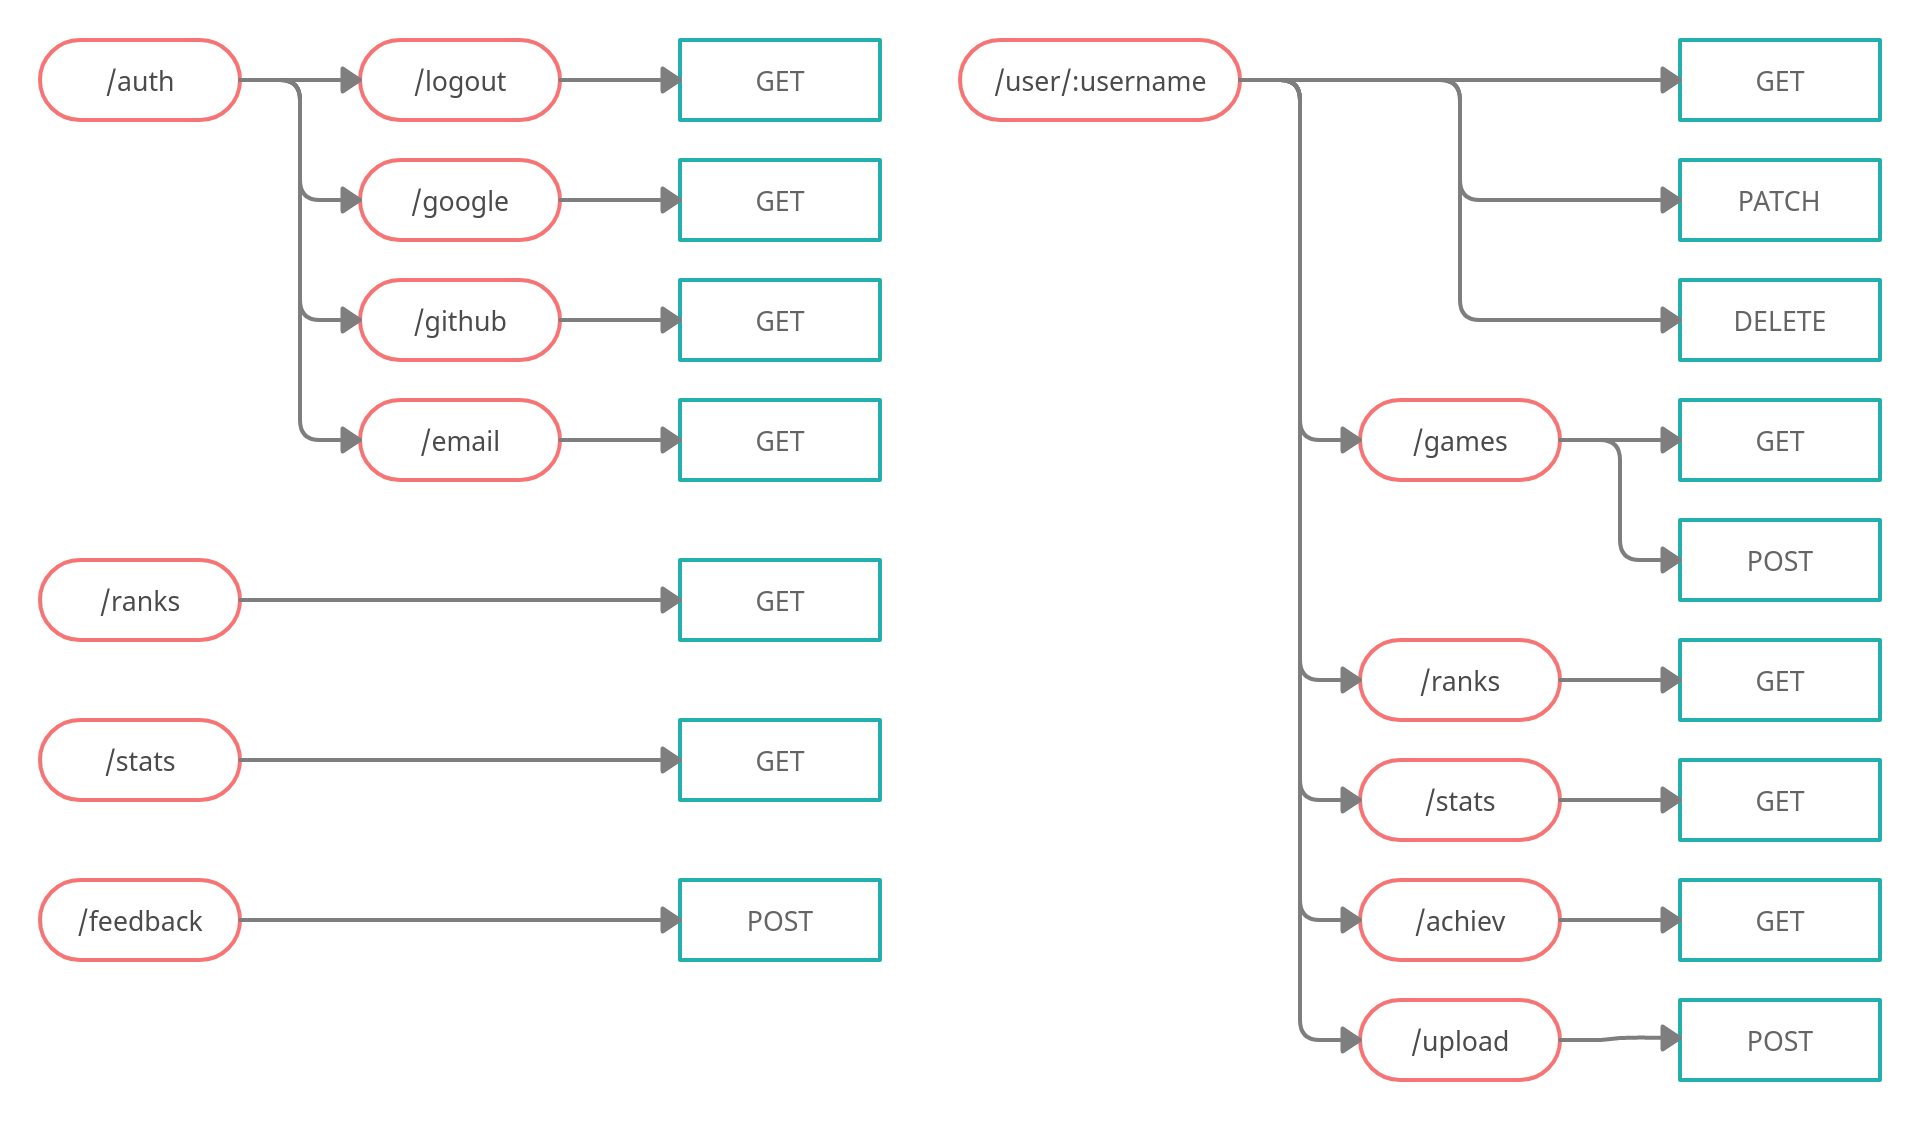
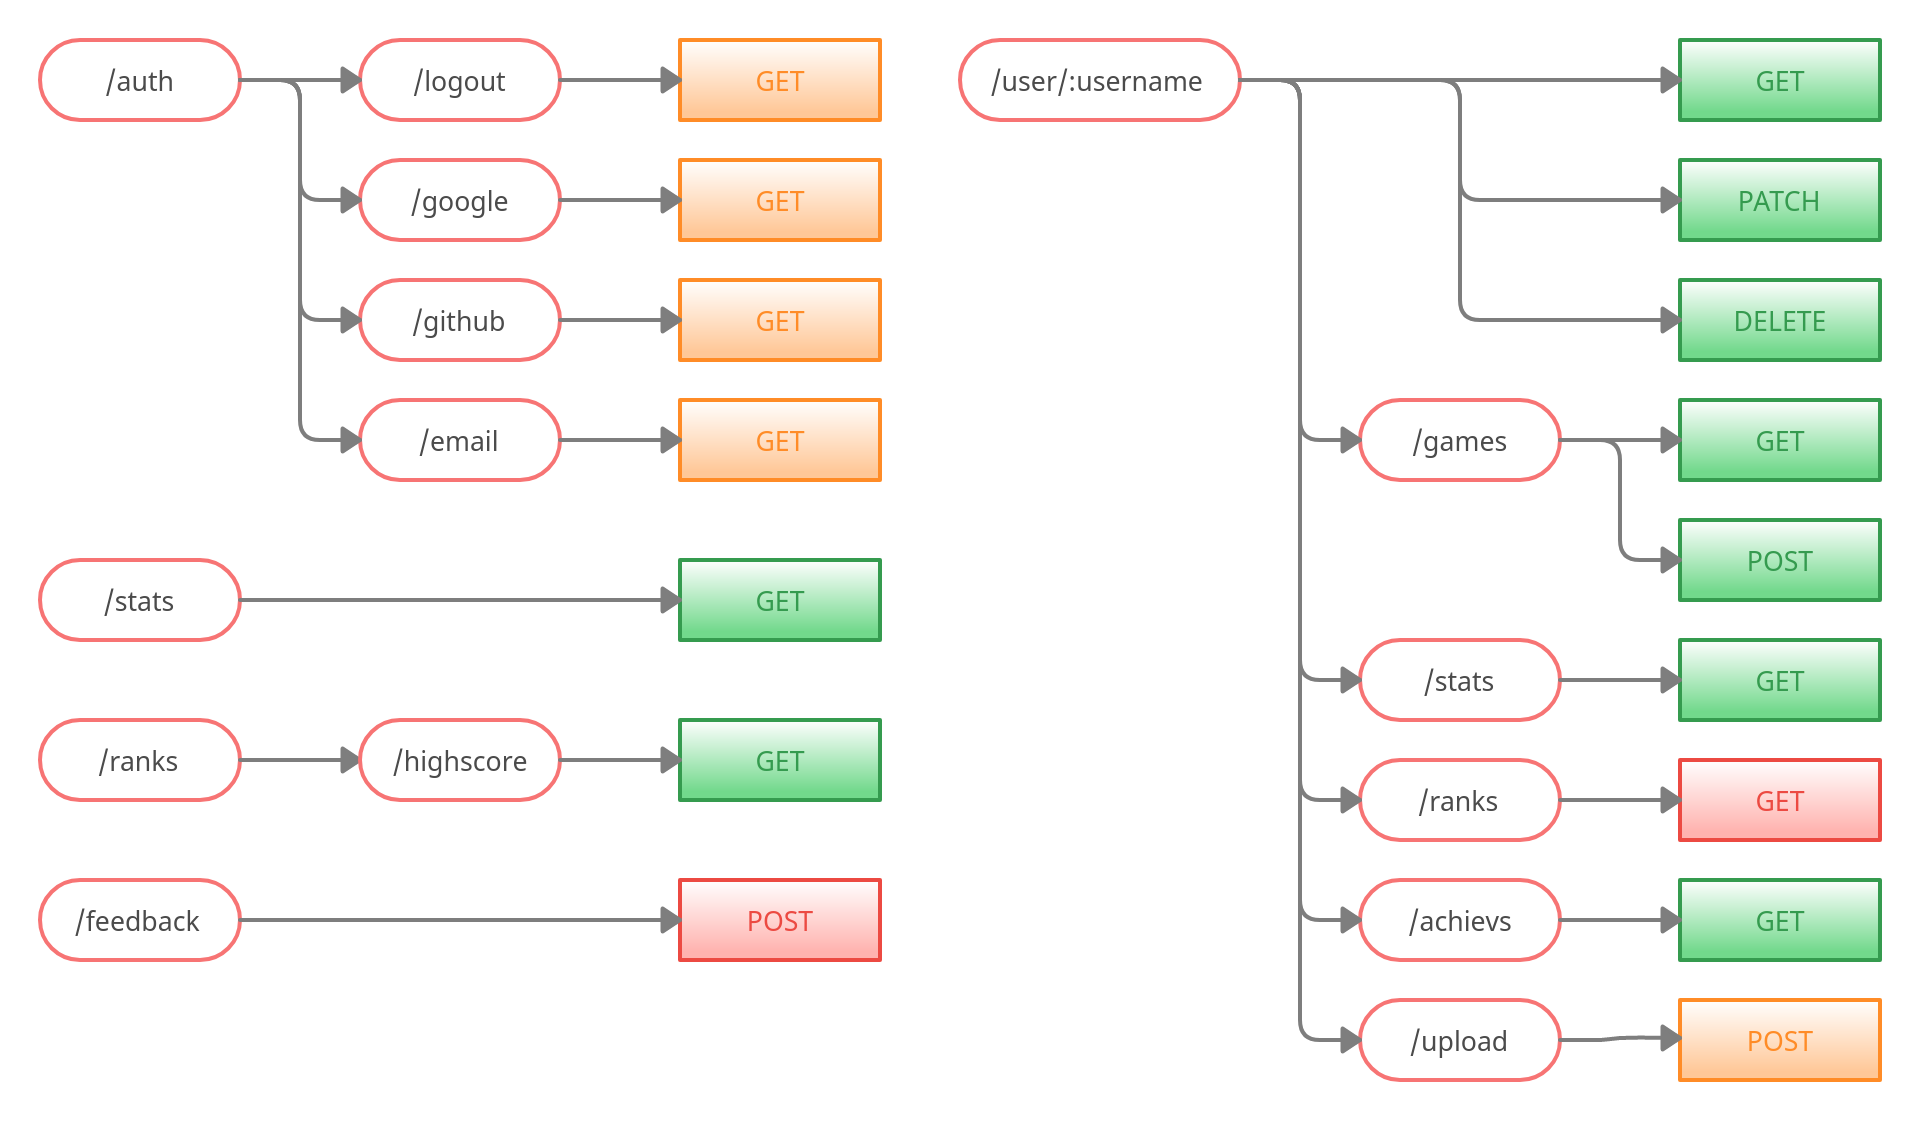
Update picture

diff --git a/controller/userController.js b/controller/userController.js
@@ -84,31 +84,29 @@ module.exports = userController = {
     console.log('GET on /user/:username/stats');
     try {
       const stats = await User.findOne({username: req.params.username}, '-_id stats');
-      if(!stats) return res.status(204).send({message: 'PlayerStats not found'});
+      if(!stats) return res.status(204).send({message: 'Player Stats not found'});
+
       return res.send({message: 'success', payload: stats});
-    } catch (err) {
-      nxt(err);
-    }
+    } catch (err) {nxt(err)}
   },
 
   getRanks: async (req, res, nxt) => {
     console.log('GET on /user/:username/ranks');
     try {
       const ranks = await Ranks.findOne();
-      if(!ranks) return res.status(204).send({message: 'Playerranks not found'});
+      if(!ranks) return res.status(204).send({message: 'Player Ranks not found'});
       return res.send({message: 'success', payload: ranks});
-    } catch (err) {
-      nxt(err);
-    }
+    } catch (err) {nxt(err)}
   },
 
   getAchievs: async (req, res, nxt) => {
     console.log('GET on /user/:username/achieves');
     try {
-      const achievement = await Achievement.findOne();
-    } catch (err) {
-      nxt(err);
-    }
+      const achievs = await User.findOne({username: req.params.username}, '-_id achievs');
+      if(!achievs) return res.status(204).send({message: 'Player Achievements not found'});
+
+      return res.send({message: 'success', payload: achievs});
+    }catch(err) {nxt(err)}
   },
 
   upload: async (req, res, nxt) => {

diff --git a/routes/userRoute.js b/routes/userRoute.js
@@ -21,7 +21,7 @@ router.get('/:username/stats', userController.getStats);
 
 router.get('/:username/ranks', userController.getRanks);
 
-router.get('/:username/achiev', userController.getAchievs);
+router.get('/:username/achievs', userController.getAchievs);
 
 router.post('/:username/upload', userController.upload);
 
